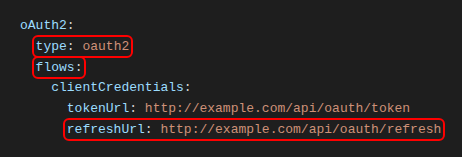
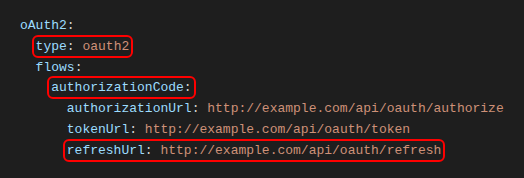
feat: update given expressions and improve logic

Changed region(s): [[0.0303, 0.1019, 0.9697, 0.9172]]

diff --git a/tests/unit/sak.test.ts b/tests/unit/sak.test.ts
@@ -184,7 +184,7 @@ testRule('Sak10', [
 
 testRule('Sak11', [
   {
-    name: 'giltigt testfall - refreshUrl är korrekt definierad',
+    name: 'giltigt testfall - authorizationCode har refreshUrl',
     document: {
       openapi: '3.1.0',
       info: { version: '1.0' },
@@ -193,7 +193,8 @@ testRule('Sak11', [
           oAuth2: {
             type: 'oauth2',
             flows: {
-              clientCredentials: {
+              authorizationCode: {
+                authorizationUrl: 'https://example.com/authorize',
                 tokenUrl: 'https://example.com/token',
                 refreshUrl: 'https://example.com/refresh',
               },
@@ -205,7 +206,7 @@ testRule('Sak11', [
     errors: [],
   },
   {
-    name: 'ogiltigt testfall - refreshUrl saknas',
+    name: 'ogiltigt testfall - authorizationCode saknar refreshUrl',
     document: {
       openapi: '3.1.0',
       info: { version: '1.0' },
@@ -214,53 +215,6 @@ testRule('Sak11', [
           oAuth2: {
             type: 'oauth2',
             flows: {
-              clientCredentials: {
-                tokenUrl: 'https://example.com/token',
-              },
-            },
-          },
-        },
-      },
-    },
-    errors: [
-      {
-        message:
-          'En uppdateringstoken SKALL tillhandahållas för att förlänga giltighetstiden för befintliga token utan att behöva tillhandahålla referenserna igen.',
-        severity: DiagnosticSeverity.Error,
-        path: ['components', 'securitySchemes', 'oAuth2', 'flows', 'clientCredentials'],
-      },
-    ],
-  },
-  {
-    name: 'giltigt testfall - annan typ av security scheme',
-    document: {
-      openapi: '3.1.0',
-      info: { version: '1.0' },
-      components: {
-        securitySchemes: {
-          basicAuth: {
-            type: 'http',
-            scheme: 'basic',
-          },
-        },
-      },
-    },
-    errors: [],
-  },
-  {
-    name: 'ogiltigt testfall - flera oauth2-flows där refreshUrl saknas i ett flow',
-    document: {
-      openapi: '3.1.0',
-      info: { version: '1.0' },
-      components: {
-        securitySchemes: {
-          oAuth2: {
-            type: 'oauth2',
-            flows: {
-              clientCredentials: {
-                tokenUrl: 'https://example.com/token',
-                refreshUrl: 'https://example.com/refresh',
-              },
               authorizationCode: {
                 authorizationUrl: 'https://example.com/authorize',
                 tokenUrl: 'https://example.com/token',
@@ -275,9 +229,62 @@ testRule('Sak11', [
         message:
           'En uppdateringstoken SKALL tillhandahållas för att förlänga giltighetstiden för befintliga token utan att behöva tillhandahålla referenserna igen.',
         severity: DiagnosticSeverity.Error,
-        path: ['components', 'securitySchemes', 'oAuth2', 'flows', 'authorizationCode'],
+        path: [
+          'components',
+          'securitySchemes',
+          'oAuth2',
+          'flows',
+          'authorizationCode',
+        ],
       },
     ],
+  },
+  {
+    name: 'ogiltigt testfall - password saknar refreshUrl',
+    document: {
+      openapi: '3.1.0',
+      info: { version: '1.0' },
+      components: {
+        securitySchemes: {
+          oAuth2: {
+            type: 'oauth2',
+            flows: {
+              password: {
+                tokenUrl: 'https://example.com/token',
+              },
+            },
+          },
+        },
+      },
+    },
+    errors: [
+      {
+        message:
+          'En uppdateringstoken SKALL tillhandahållas för att förlänga giltighetstiden för befintliga token utan att behöva tillhandahålla referenserna igen.',
+        severity: DiagnosticSeverity.Error,
+        path: ['components', 'securitySchemes', 'oAuth2', 'flows', 'password'],
+      },
+    ],
+  },
+  {
+    name: 'giltigt testfall - clientCredentials behöver inte ha refreshUrl',
+    document: {
+      openapi: '3.1.0',
+      info: { version: '1.0' },
+      components: {
+        securitySchemes: {
+          oAuth2: {
+            type: 'oauth2',
+            flows: {
+              clientCredentials: {
+                tokenUrl: 'https://example.com/token',
+              },
+            },
+          },
+        },
+      },
+    },
+    errors: [],
   },
 ]);
 

diff --git a/src/rulesets/SakRules.ts b/src/rulesets/SakRules.ts
@@ -150,14 +150,15 @@ export class Sak11 extends BaseRuleset {
     id: 'SAK.11',
   };
 
-  description = 'OAuth 2.0-flow SKALL ha attributet refreshUrl definierat.';
+  description = 'OAuth 2.0 authorizationCode- och password-flow SKALL ha attributet refreshUrl definierat.';
 
   message =
     'En uppdateringstoken SKALL tillhandahållas för att förlänga giltighetstiden för befintliga token utan att behöva tillhandahålla referenserna igen.';
 
   given = [
     '$.components.securitySchemes[?(@.type=="oauth2")]',
-    '$.components.securitySchemes[?(@.type=="oauth2")].flows[*]',
+    '$.components.securitySchemes[?(@.type=="oauth2")].flows.authorizationCode',
+    '$.components.securitySchemes[?(@.type=="oauth2")].flows.password',
   ];
 
   then = [

diff --git a/GUIDELINES.md b/GUIDELINES.md
@@ -86,6 +86,7 @@ Detta dokument specificerar reglerna som verktyget tillämpar.
     - [ID: SAK.01](#id-sak01)
     - [ID: SAK.09](#id-sak09)
     - [ID: SAK.10](#id-sak10)
+    - [ID: SAK.11](#id-sak11)
     - [ID: SAK.15](#id-sak15)
     - [ID: SAK.16](#id-sak16)
     - [ID: SAK.18](#id-sak18)
@@ -1308,22 +1309,23 @@ I exemplet ovan så kommer regeln att ge ett positivt utfall eftersom det finns 
 **JSON Path Plus-uttryck:**
 
 ```
- $.components.securitySchemes[?(@.type=="oauth2")]
- $.components.securitySchemes[?(@.type=="oauth2")].flows[*]
+'$.components.securitySchemes[?(@.type=="oauth2")]'
+'$.components.securitySchemes[?(@.type=="oauth2")].flows.authorizationCode'
+'$.components.securitySchemes[?(@.type=="oauth2")].flows.password'
 ```
 
 **Förklaring:**
-Regeln förutsätter att API använder OAuth 2.0 för autentisering eller auktorisering.
+Regeln förutsätter att API:et använder OAuth 2.0 för autentisering eller auktorisering.
 
-För OAuth 2.0 ska minst ett flow vara definierat. Varje definierat OAuth 2.0-flow SKALL ha attributet `refreshUrl` definierat. Attributet används för att dokumentera den endpoint där en uppdateringstoken kan användas för att erhålla en ny åtkomsttoken utan att användaren behöver autentisera sig på nytt.
+För OAuth 2.0 ska minst ett flow vara definierat. För `authorizationCode`- och `password`-flow SKALL attributet refreshUrl vara definierat. Attributet används för att dokumentera den endpoint där en uppdateringstoken kan användas för att erhålla en ny åtkomsttoken utan att användaren behöver autentisera sig på nytt.
 
-Regeln kontrollerar endast att `refreshUrl` är definierat i API-beskrivningen. Regeln kan inte kontrollera om uppdateringstoken faktiskt utfärdas eller om endpointen fungerar.
+Regeln kontrollerar endast att refreshUrl är definierat i API-beskrivningen. Regeln kan inte kontrollera om uppdateringstoken faktiskt utfärdas eller om endpointen fungerar.
 
 **Exempel:**
 
 ![alt text](images/sak11.png)
 
-I exemplet ovan kommer regeln att ge ett positivt utfall eftersom securityschemat är av typen OAuth 2.0 och har ett definierat flow med attributet `refreshUrl`.
+Bilden visar ett OAuth 2.0-security scheme med ett `authorizationCode`-flow. Flowet innehåller attributet `refreshUrl`, vilket innebär att kravet uppfylls.
 
 ---
 
